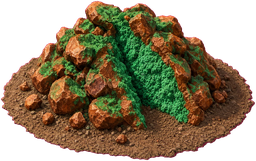
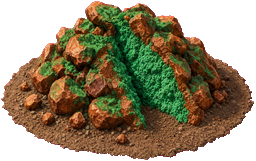
Clean the keying residue from the new art: the trebuchet's enclosed film, the deposits' pink rims

diff --git a/TROUBLESHOOTING.md b/TROUBLESHOOTING.md
@@ -287,3 +287,7 @@ Causes and fixes:
 - **Siege line (owner).** Siegecraft unlocks the Ram (which now needs it), Torsion engines the Onager (range 7, 52 dmg x3.2 on walls, hurts men), Counterweight engines the Trebuchet (range 11, 110 dmg x3.6 on walls, x0.3 on men). Wall damage a second: ram 35, onager 42, trebuchet 66. `train` refuses an engine without its research; the Workshop's buttons say which research is missing. Engines throw stones (`projectile.stone`). Stand-in art is drawn in code (`siegeSprite`); the painted engines and research icons are requested (ARTREQUIREMENTS, Paint next 12), and their files are not loaded until delivered.
 - **Keeps store engines (owner).** A keep has sheds for `SIEGE_STORE` (3) engines in `b.engines`, apart from its garrison: stored engines heal, do not count as guards, and are rolled out by Leave or when the keep falls. Rivals store theirs in peace and roll them out at war.
 - **Rivals never built engines.** Siege training sat inside the army-cap gate, and rivals live at their cap. Engines now have their own allowance (one per dozen soldiers, up to three). Two of three rivals never reached the Workshop in their build plan; a house with the research and no Workshop now raises one.
+
+## T-070 - Keying residue in Grok's 2026-10-19 drop (fixed 2026-10-19)
+- The drop (b2df832: siege engines, ram body and wheel, ore deposits, order icons, marks, research icons, Scottish levy) was keyed, but two leftovers showed at game size. **The trebuchet** (and the torsion icon) had a dark red film about 30% opaque over the ground enclosed by its frame and beam: the key's flood fill never reached that enclosed patch. **The ore deposits** had a magenta-pink rim and ground shadow. Cleared: half-transparent pink or dark-red-film pixels went to alpha 0 in all 33 files; on the deposits, any pink-magenta pixel (red with blue in it, which no rock has; iron's rust has none) was recoloured to earth. `tools/defringe.py` deliberately spares rose and violet (T-054) and so missed them.
+- Checked in game: the painted ram (separate turning wheel), onager and trebuchet; 17 painted order icons; no page errors, no missing files.
